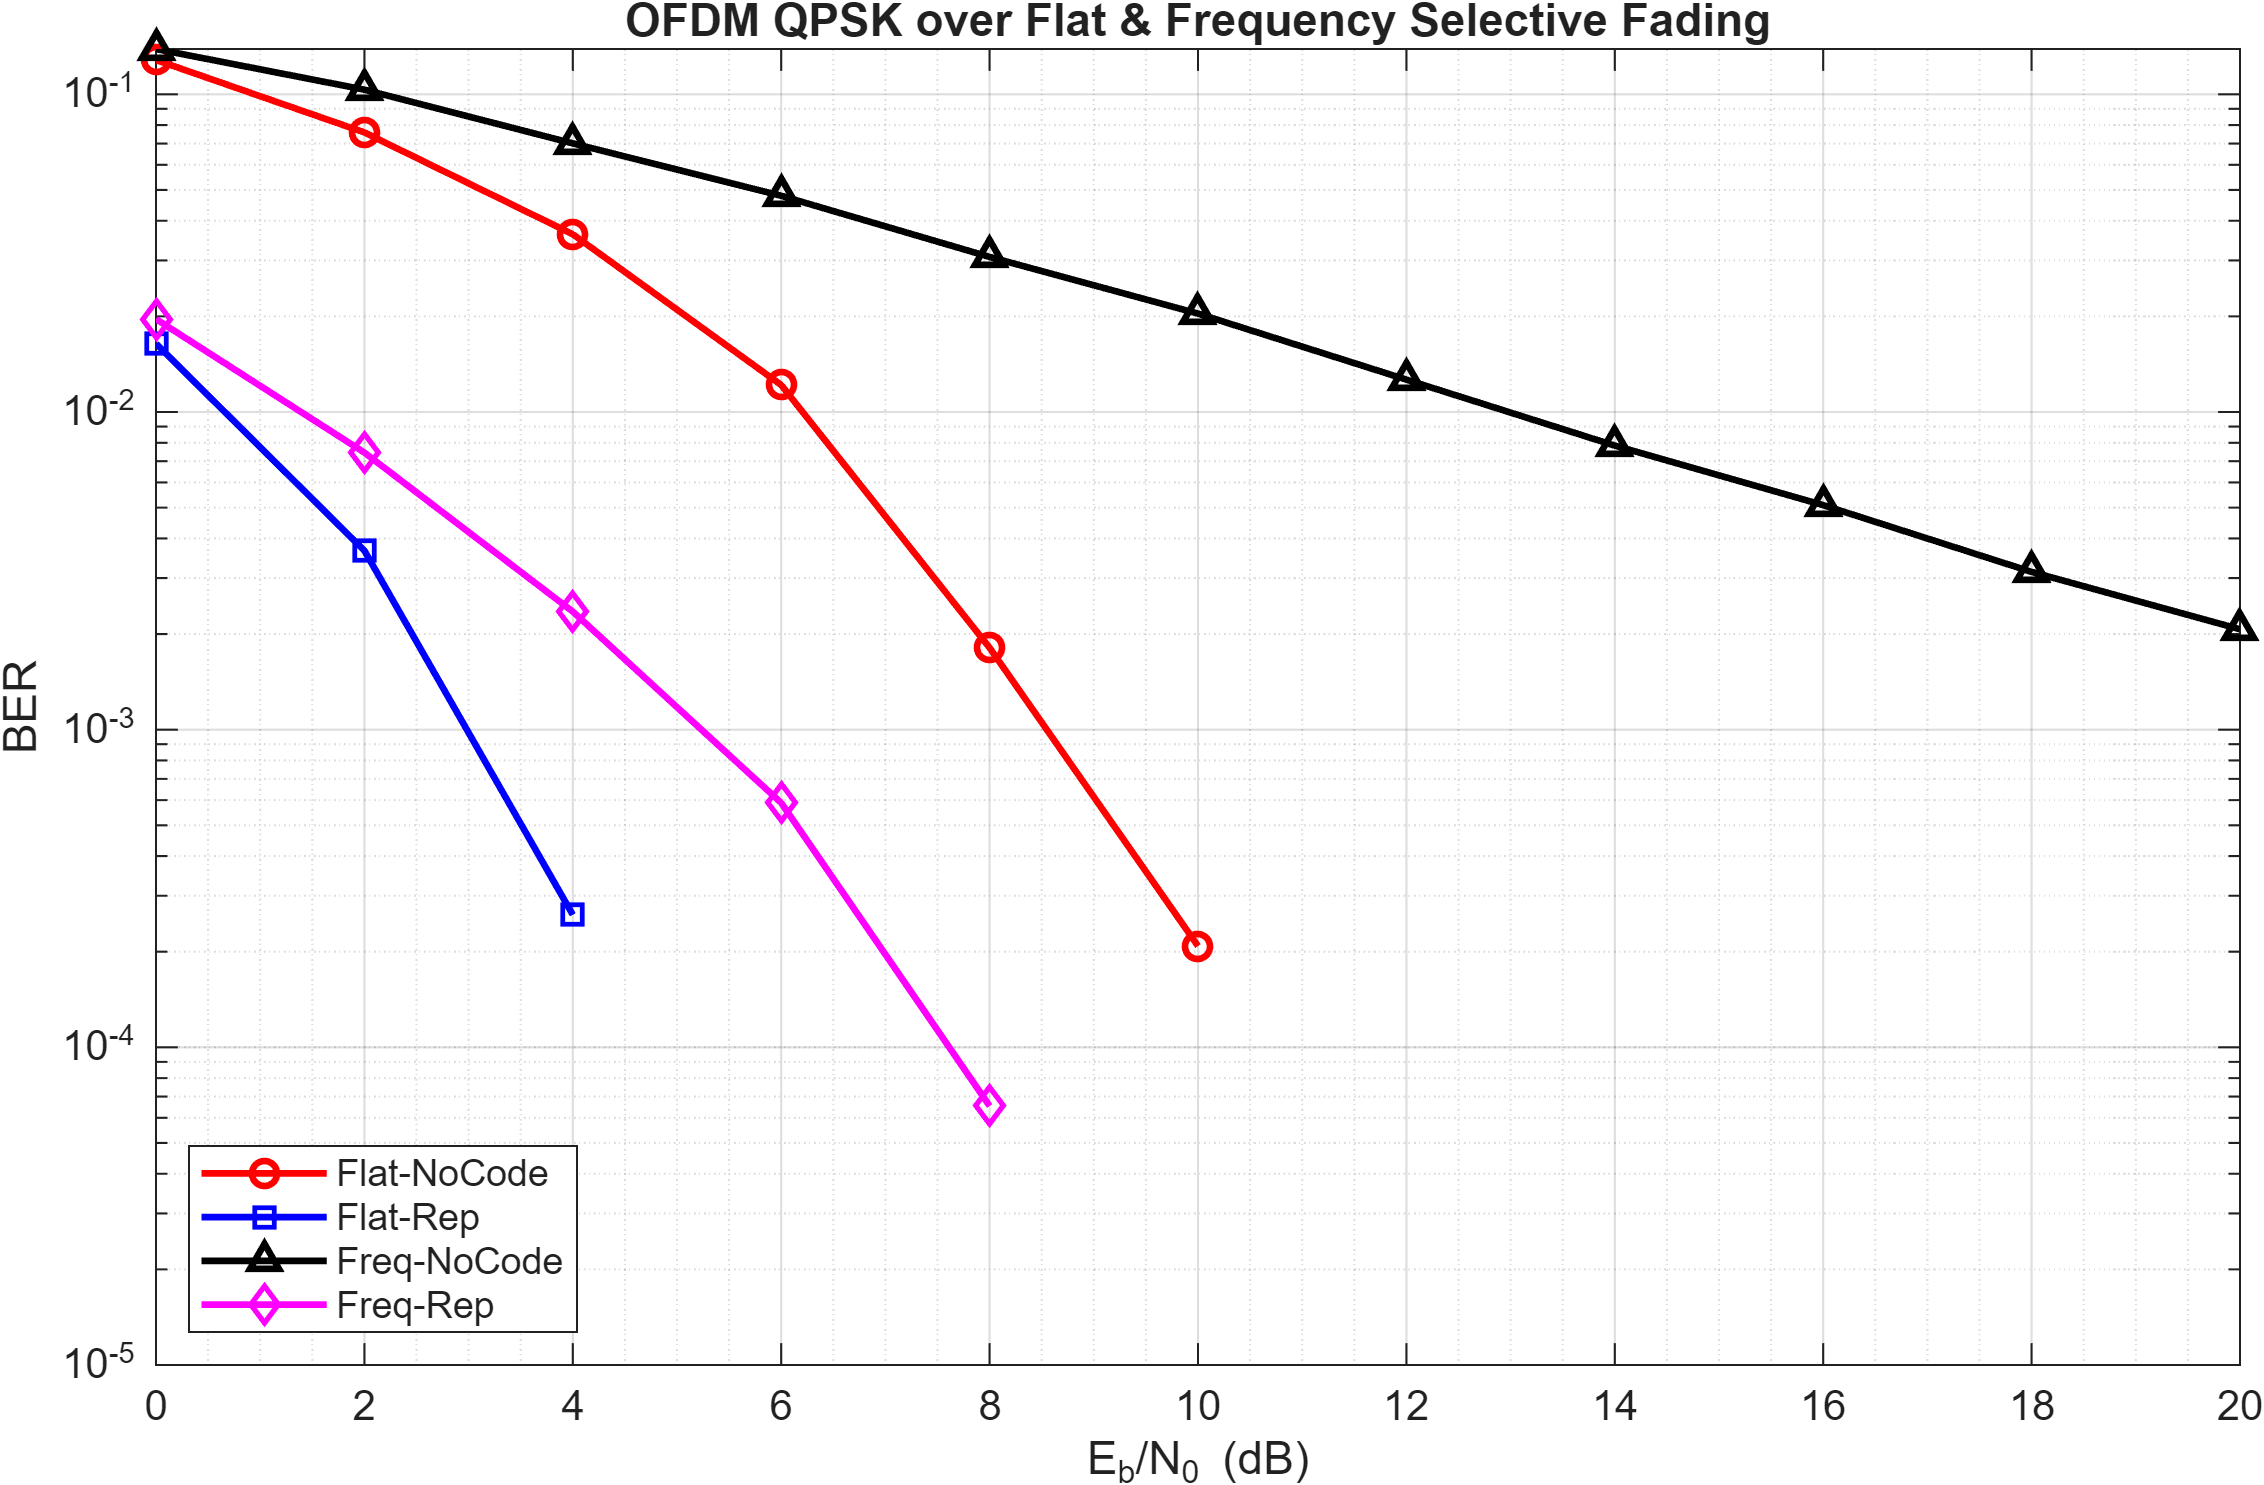
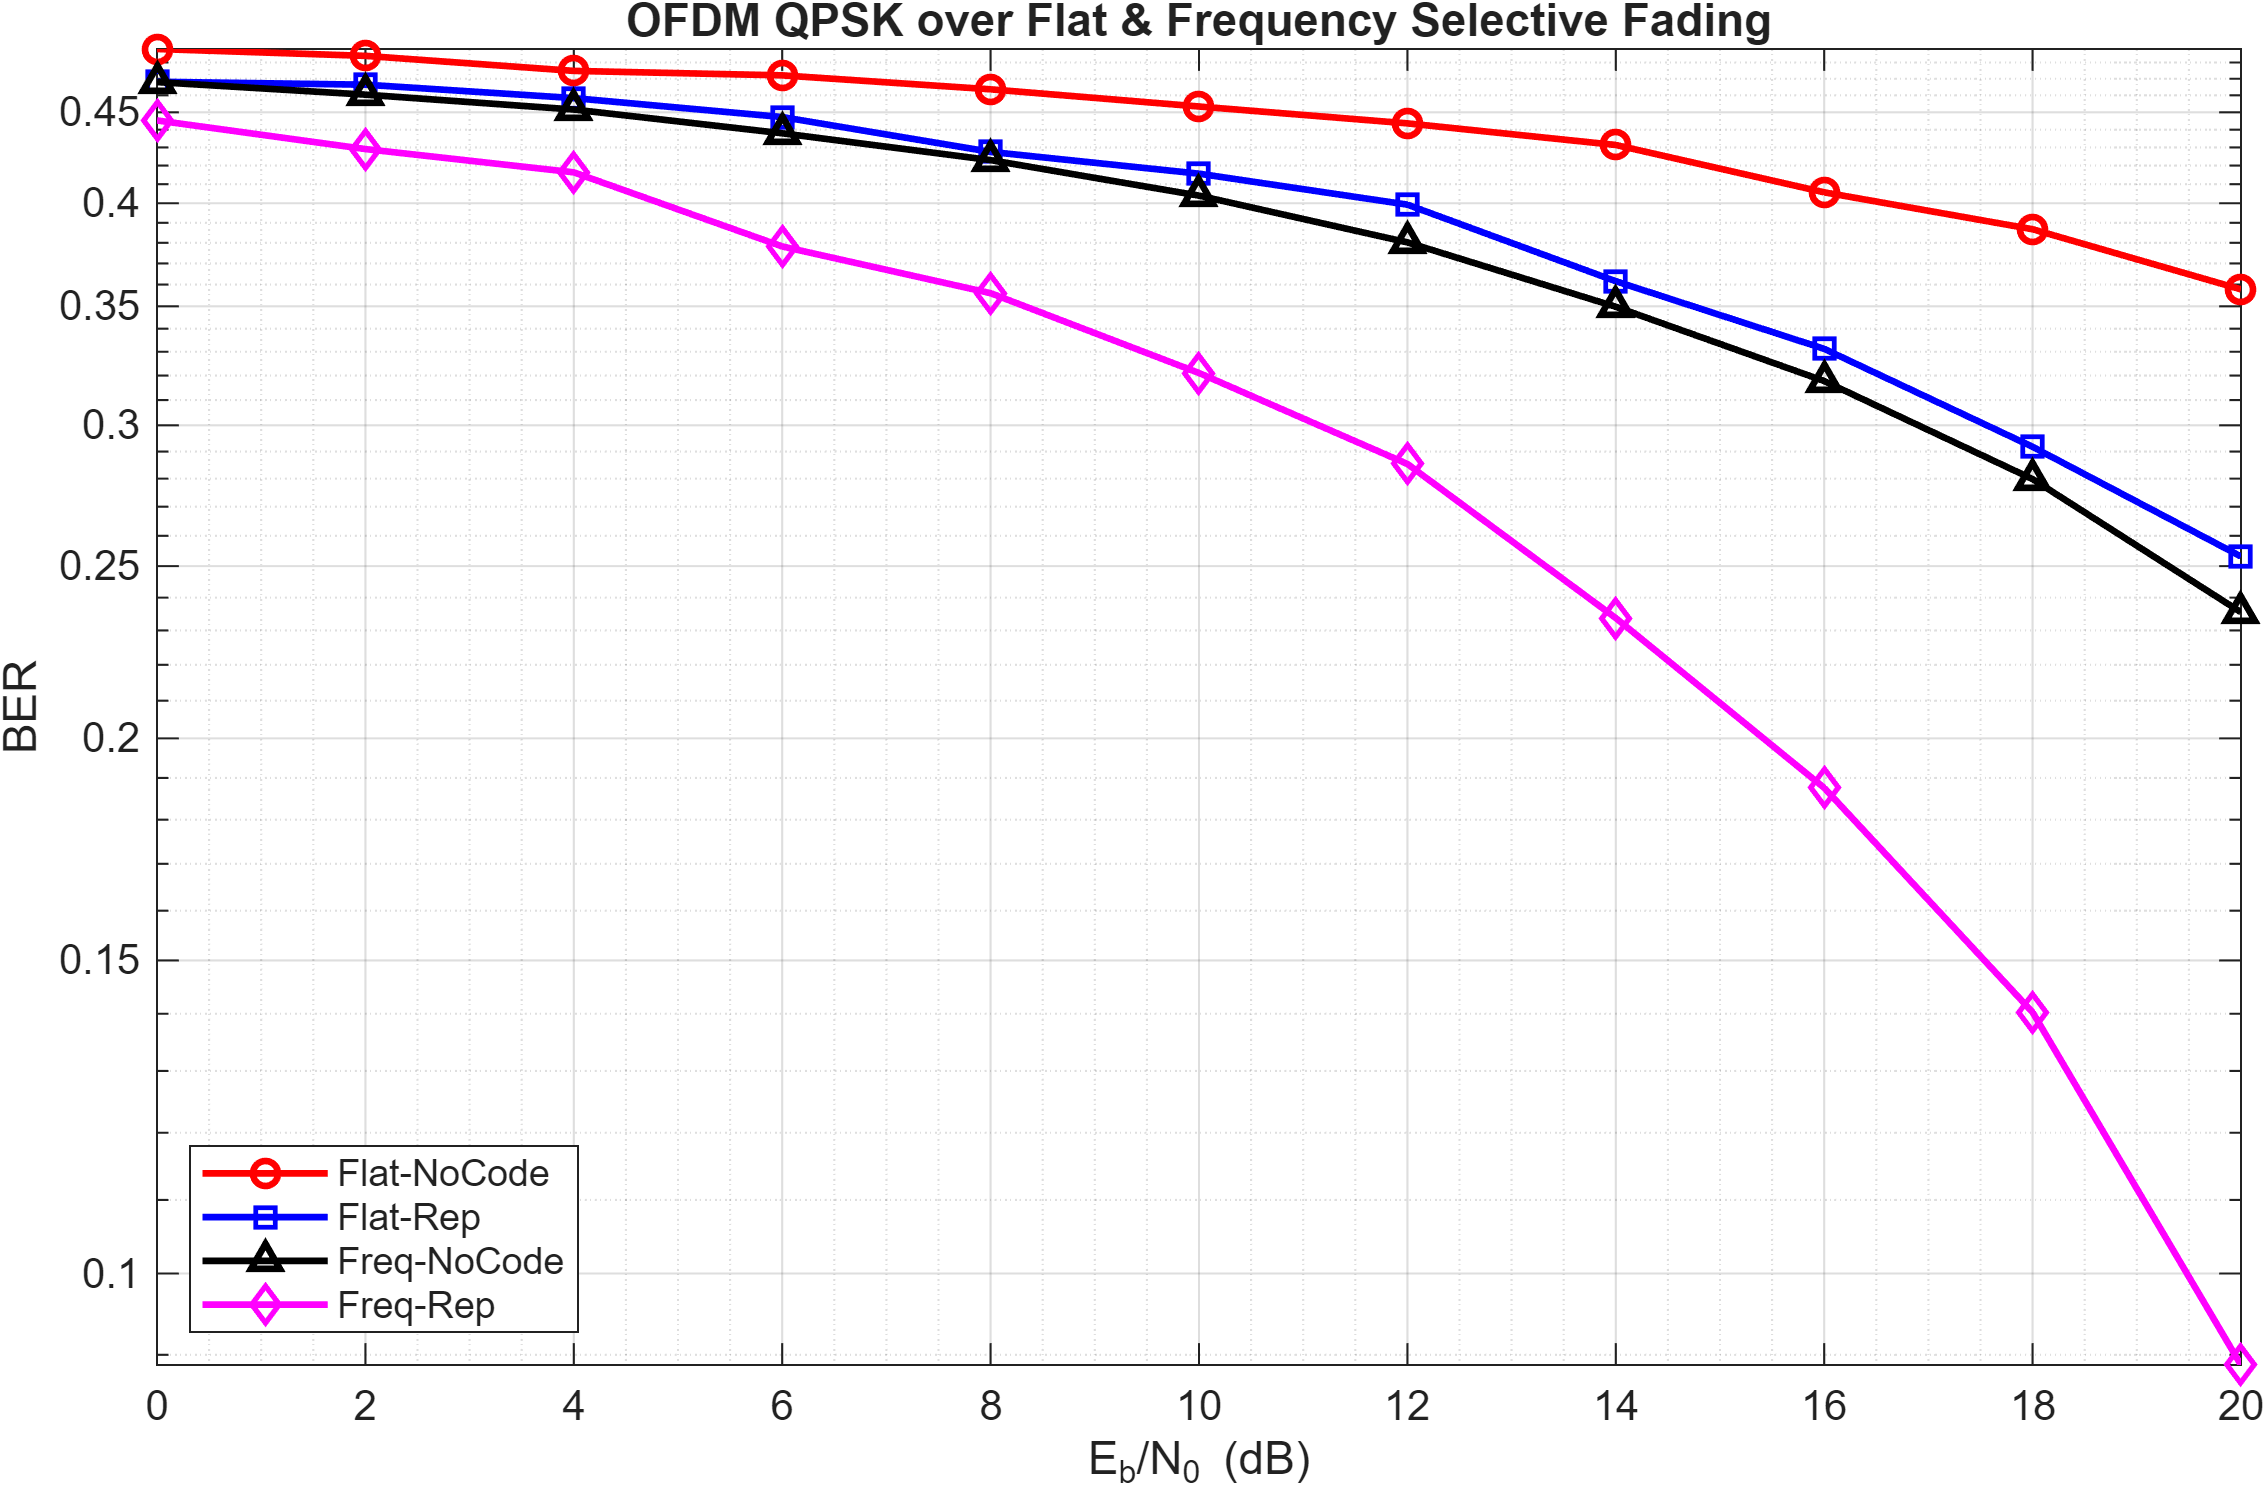
Finished Q3
Now time to report 🔥

diff --git a/OFDM Coding/Q3.m b/OFDM Coding/Q3.m
@@ -6,7 +6,6 @@ Eb = 1;
 EbN0_dB = 0:2:20;
 EbN0_lin = 10.^(EbN0_dB/10);
 No = Eb ./ EbN0_lin;                 % noise spectral density
-std_noise = sqrt(No./(2*Nfft));      % OFDM noise normalization
 
 mods = {'BPSK','QPSK','16QAM'};
 R = 5;                     % repetition factor
@@ -90,9 +89,11 @@ for m = 1:length(mods)
  
             
             %% ========== AWGN ==========
-            noise_unc = std_noise(snr) * (randn(size(y_unc_flat)) + 1j*randn(size(y_unc_flat)));
-            noise_rep = std_noise(snr) * (randn(size(y_rep_flat)) + 1j*randn(size(y_rep_flat)));
-            
+            sigma = sqrt(Eb ./ (2*EbN0_lin(snr)));
+
+            noise_unc = sigma * (randn(size(y_unc_flat)) + 1j*randn(size(y_unc_flat)));
+            noise_rep = sigma * (randn(size(y_rep_flat)) + 1j*randn(size(y_rep_flat)));
+
             y_unc_flat = y_unc_flat + noise_unc;
             y_rep_flat = y_rep_flat + noise_rep;
 
@@ -102,9 +103,11 @@ for m = 1:length(mods)
             y_rep_sel = ifft(X_rep .* H);
             
             %% ========== AWGN ==========
-            noise_unc = std_noise(snr) * (randn(size(y_unc_sel)) + 1j*randn(size(y_unc_sel)));
-            noise_rep = std_noise(snr) * (randn(size(y_rep_sel)) + 1j*randn(size(y_rep_sel)));
-            
+            sigma = sqrt(Eb ./ (2*EbN0_lin(snr)));
+
+            noise_unc = sigma * (randn(size(y_unc_sel)) + 1j*randn(size(y_unc_sel)));
+            noise_rep = sigma * (randn(size(y_rep_sel)) + 1j*randn(size(y_rep_sel)));
+  
             y_unc_sel = y_unc_sel + noise_unc;
             y_rep_sel = y_rep_sel + noise_rep;
 
